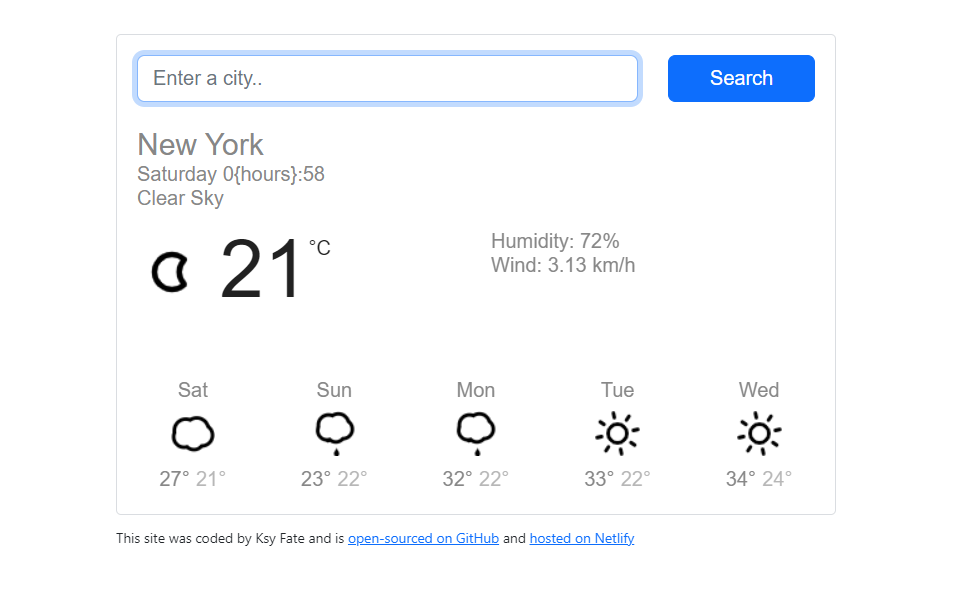
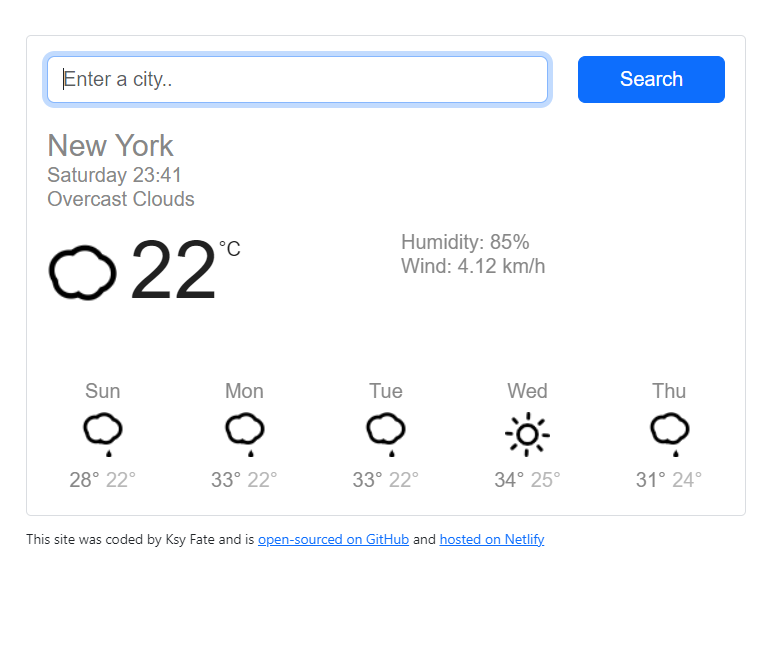
finished portfolio

diff --git a/weather-item.html b/weather-item.html
@@ -15,8 +15,9 @@
       crossorigin="anonymous"
     />
     <link
-      href="//maxcdn.bootstrapcdn.com/font-awesome/4.1.0/css/font-awesome.min.css"
+      href="http://cdnjs.cloudflare.com/ajax/libs/font-awesome/4.3.0/css/font-awesome.css"
       rel="stylesheet"
+      type="text/css"
     />
     <!-- Update these with your own fonts -->
     <link
@@ -40,7 +41,7 @@
             <a href="index.html" class="nav__link">Home</a>
           </li>
           <li class="nav__item">
-            <a href="index.html#services" class="nav__link">My Services</a>
+            <a href="index.html#services" class="nav__link">What I work with</a>
           </li>
           <li class="nav__item">
             <a href="index.html#about" class="nav__link">About me</a>
@@ -57,28 +58,30 @@
         The title <strong>of my project</strong>
       </h1>
       <p class="section__subtitle section__subtitle--intro">Weather App</p>
-      <img src="img/weather.jpg" alt="" class="intro__img" />
+      <img src="img/weatherF.jpg" alt="" class="intro__img" />
     </section>
 
     <div class="portfolio-item-individual">
       <p>
-        A to-do list is a list of things you have to-do. That means basically
-        anything and everything can be on your to-do list.
+        Help yourself to make better decisions about day-to-day activities with
+        weather app.
       </p>
-      <img src="img/weather.jpg" alt="todo" />
+      <img src="img/weather.jpg" alt="weather" />
       <p>
-        In such app you can create to-do list for every day, add your own things
-        to-do, mark them as they are done or delete if no more needed. You also
-        can use a buttons of filtering to show all of your things to-do, active
-        or only completed.
+        In this app I provided real time weather data. You can check the weather
+        condition in any city of any country. It is also shows additional
+        information such as humidity, wind, day of the week and time. The sky
+        condition implemented with animated icons.
       </p>
-      <p>Try this app by your own by click this link
-         <a
-        href="https://oprokopieva382.github.io/todolistApp" class="todo-link"
-        target="_blank"
-      >click me</a>
+      <p>
+        Try this app by your own by click this link
+        <a
+          href="https://cute-chebakia-12cb2b.netlify.app"
+          class="todo-link"
+          target="_blank"
+          >click me</a
+        >
       </p>
-     
     </div>
 
     <!-- Footer -->

diff --git a/wordUnscrambler.html b/wordUnscrambler.html
@@ -15,19 +15,16 @@
       crossorigin="anonymous"
     />
     <link
-      href="//maxcdn.bootstrapcdn.com/font-awesome/4.1.0/css/font-awesome.min.css"
+      href="http://cdnjs.cloudflare.com/ajax/libs/font-awesome/4.3.0/css/font-awesome.css"
       rel="stylesheet"
+      type="text/css"
     />
     <!-- Update these with your own fonts -->
     <link
       href="https://fonts.googleapis.com/css?family=Lora:400,700|Roboto+Slab:400,700&display=swap"
       rel="stylesheet"
     />
-    <link
-      href="http://cdnjs.cloudflare.com/ajax/libs/font-awesome/4.3.0/css/font-awesome.css"
-      rel="stylesheet"
-      type="text/css"
-    />
+
     <link rel="stylesheet" href="css/style.css" />
   </head>
   <body>
@@ -60,26 +57,25 @@
       <h1 class="section__title section__title--intro">
         The title <strong>of my project</strong>
       </h1>
-      <p class="section__subtitle section__subtitle--intro">TodoList App</p>
-      <img src="img/todo.jpg" alt="" class="intro__img" />
+      <p class="section__subtitle section__subtitle--intro">Dictionary App</p>
+      <img src="img/wordUnscrambler2.jpg" alt="" class="intro__img" />
     </section>
 
     <div class="portfolio-item-individual">
       <p>
-        A to-do list is a list of things you have to-do. That means basically
-        anything and everything can be on your to-do list.
+        Here is my word game app in English for reference, education, and
+        vocabulary building.
       </p>
-      <img src="img/todoList2.jpg" alt="todo" />
+      <img src="img/dictionary.jpg" alt="dictionary" />
       <p>
-        In such app you can create to-do list for every day, add your own things
-        to-do, mark them as they are done or delete if no more needed. You also
-        can use a buttons of filtering to show all of your things to-do, active
-        or only completed. Project made with Redux.
+        In a search field, type any English word and you'll get noun and verb
+        regards your search. You can also listen the pronunciation of that word
+        if it is needed by press the button "Listen". Have fun with it.
       </p>
       <p>
         Try this app by your own by click this link
         <a
-          href="https://oprokopieva382.github.io/todolistApp"
+          href="https://superb-clafoutis-b51bd7.netlify.app"
           class="todo-link"
           target="_blank"
           >click me</a

diff --git a/index.html b/index.html
@@ -19,8 +19,9 @@
       rel="stylesheet"
     />
     <link
-      href="//maxcdn.bootstrapcdn.com/font-awesome/4.1.0/css/font-awesome.min.css"
+      href="http://cdnjs.cloudflare.com/ajax/libs/font-awesome/4.3.0/css/font-awesome.css"
       rel="stylesheet"
+      type="text/css"
     />
     <link rel="stylesheet" href="css/style.css" />
   </head>
@@ -109,7 +110,7 @@
 
       <div class="about-me__body">
         <p>
-          I started my React Front End Developer career in 2022💻. By being
+          I started my React Front End Developer career in 2022💻. Being
           Master Accountant💰 before with absolute passion to learning so no
           wonder that after mastering in finance switched to coding once. I am
           enjoying the industry with endless knowledge, feel unstoppable
@@ -142,10 +143,10 @@
         </a>
         <!--Portfolio item 02-->
         <a href="weather-item.html" class="portfolio__item">
-          <img src="img/weather.jpg" alt="" class="portfolio__img" />
+          <img src="img/weatherF.jpg" alt="" class="portfolio__img" />
         </a>
         <!--Portfolio item 03-->
-        <a href="portfolio-item.html" class="portfolio__item">
+        <a href="wordUnscrambler.html" class="portfolio__item">
           <img src="img/wordUnscrambler2.jpg" alt="" class="portfolio__img" />
         </a>
       </div>
